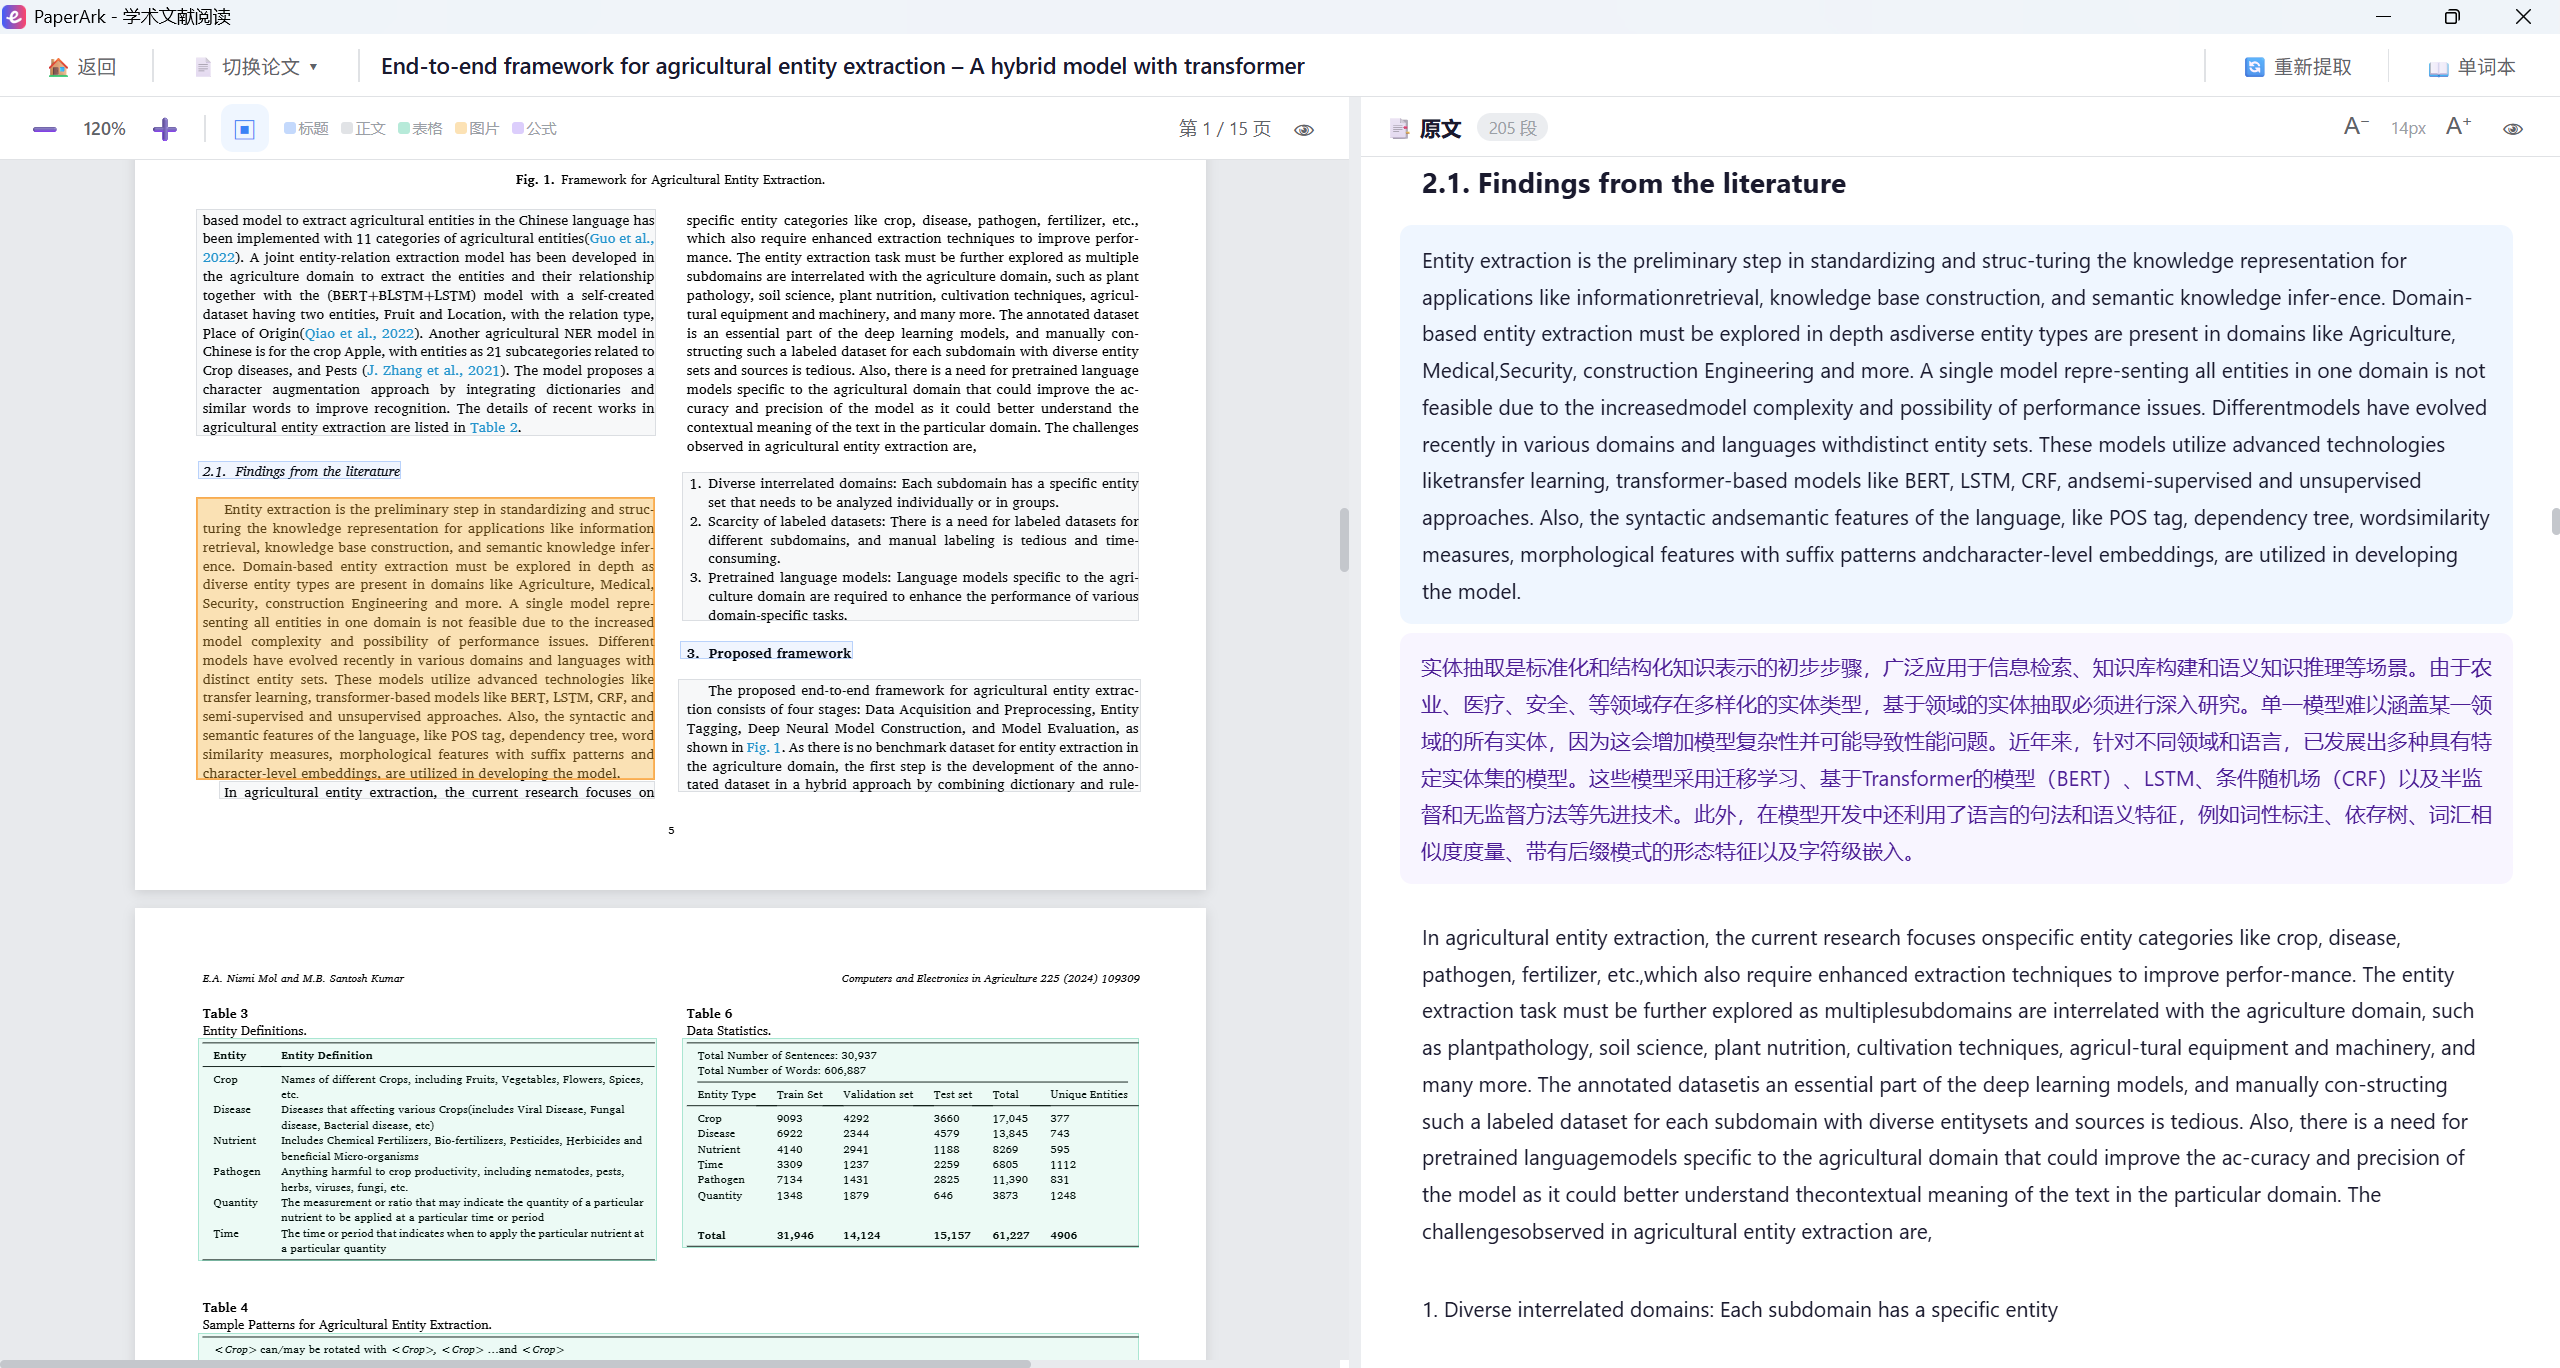
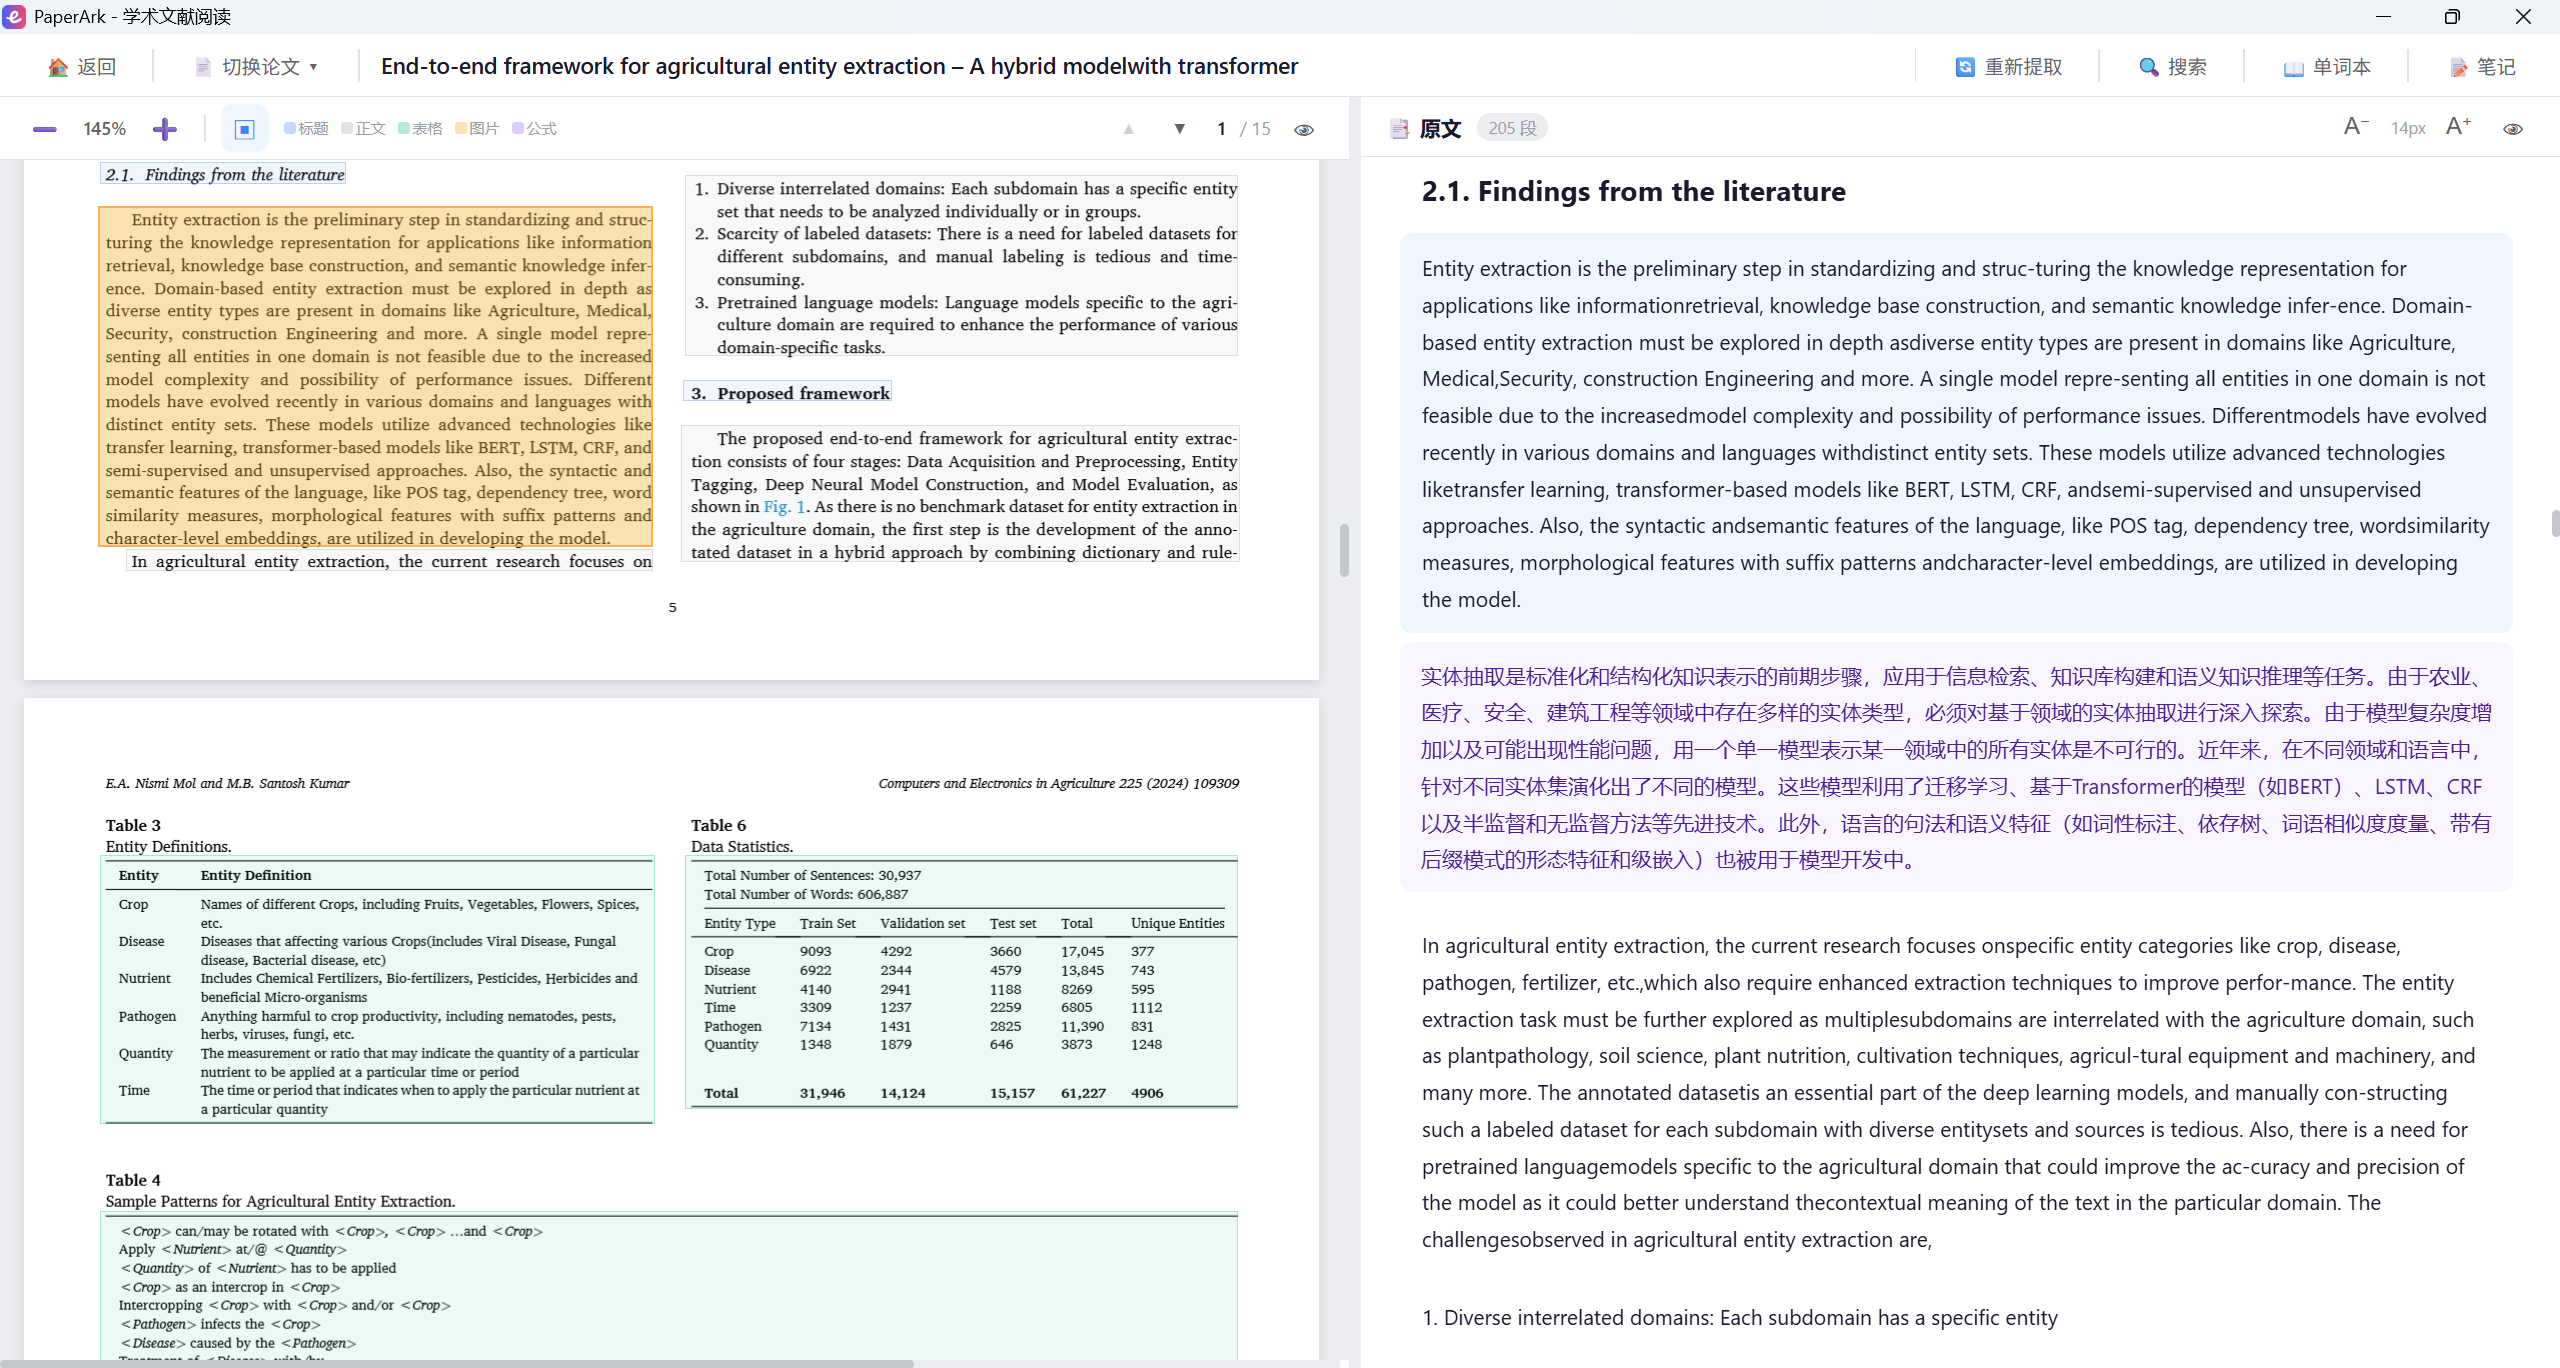
v1.2.6

diff --git a/README.md b/README.md
@@ -2,7 +2,7 @@
 
 > AI 驱动的学术文献阅读工具
 
-PaperArk 是一款面向学术研究者的桌面文献阅读工具，支持 PDF 导入、全文结构化提取、AI 段落翻译、标注与笔记、单词本等功能，帮助你把论文从静态 PDF 变成可深度交互的知识。
+PaperArk 是一款面向学术研究者的桌面文献阅读工具，支持 PDF 导入、全文结构化提取、AI 段落翻译、标注与笔记、Markdown 笔记、单词本、暗色模式等功能，帮助你把论文从静态 PDF 变成可深度交互的知识。
 
 🚀 **下载后直接双击 `paperark.exe` 启动，无需安装。**
 
@@ -14,11 +14,13 @@ PaperArk 是一款面向学术研究者的桌面文献阅读工具，支持 PDF 
 2. [主界面概览](#2-主界面概览)
 3. [文献管理](#3-文献管理)
 4. [阅读论文](#4-阅读论文)
-5. [AI 翻译](#5-ai-翻译)
-6. [标注与笔记](#6-标注与笔记)
-7. [单词本](#7-单词本)
-8. [设置](#8-设置)
-9. [回收站](#9-回收站)
+5. [全文搜索](#5-全文搜索)
+6. [AI 翻译](#6-ai-翻译)
+7. [标注与笔记](#7-标注与笔记)
+8. [单词本](#8-单词本)
+9. [暗色模式](#9-暗色模式)
+10. [设置](#10-设置)
+11. [回收站](#11-回收站)
 
 ---
 
@@ -127,7 +129,8 @@ PaperArk 依赖两个云端 AI 服务来提供核心能力：
 
 左侧 PDF 面板支持：
 - **缩放**：➖ / ➕ 按钮，范围 50% ~ 300%
-- **翻页**：滚动浏览，当前页码实时显示
+- **翻页**：滚动浏览，也可用 ▲ ▼ 按钮逐页翻页
+- **页码跳转**：点击当前页码数字 → 输入页码 → 回车跳转
 - **段落边界框**：点击 ▣ 按钮切换显示，不同颜色区分标题/正文/表格/图片/公式
 
 ### 全文提取
@@ -153,7 +156,19 @@ PaperArk 依赖两个云端 AI 服务来提供核心能力：
 
 ---
 
-## 5. AI 翻译
+## 5. 全文搜索
+
+在阅读界面按 **Ctrl+F**（或点击工具栏 🔍 按钮），弹出搜索框：
+
+- 输入关键词 → 所有匹配段落**实时高亮**
+- **Enter** → 下一个匹配，**Shift+Enter** → 上一个
+- PDF 自动跳转到对应页面
+- 匹配计数显示当前结果位置
+- **Escape** 或点击 ✕ 关闭搜索
+
+---
+
+## 6. AI 翻译
 
 ### 段落翻译
 
@@ -168,7 +183,7 @@ PaperArk 依赖两个云端 AI 服务来提供核心能力：
 
 ---
 
-## 6. 标注与笔记
+## 7. 标注与笔记
 
 ### 文本标注
 
@@ -180,13 +195,33 @@ PaperArk 依赖两个云端 AI 服务来提供核心能力：
 
 支持 6 种标注颜色。点击已有标注可**改色**、**切换高亮/下划线**或**删除**。
 
-### 笔记
+### 笔记（Markdown 编辑器）
 
-在右侧详情面板点击 **📝 创建笔记** 进入全屏 Markdown 编辑器。笔记自动保存，上次保存时间会显示在底部。
+在右侧详情面板点击 **📝 查看 / 编辑笔记** 进入笔记编辑区，或在阅读界面点击顶部工具栏 **📝 笔记** 打开浮动笔记面板。
+
+笔记支持 **Markdown 格式**，配备格式化工具栏：
+
+| 功能 | 操作 |
+|------|------|
+| 标题 | 下拉选择正文 / H1 ~ H6 |
+| 加粗 | 选中文字后点击 **B**，再点取消 |
+| 斜体 | 选中文字后点击 **I** |
+| 删除线 | 选中文字后点击 **~** |
+| 行内代码 | 选中文字后点击 **`</>`** |
+| 无序列表 | 点击 **•** 行首插入 `-` |
+| 有序列表 | 点击 **1.** 行首插入 `1.` |
+| 链接 | 点击 **🔗** 插入 `[文字](url)` |
+| 代码块 | 点击 **▤** 插入多行代码块 |
+
+- **实时预览**：编辑区上方写 Markdown 源文，下方即时渲染显示
+- **自动保存**：失焦自动写入磁盘
+- 支持 GFM 扩展语法（表格、任务列表等）
+
+阅读界面中的 **📝 笔记** 浮动面板与详情页笔记**共享同一份数据**，在任意一侧编辑都会同步。
 
 ---
 
-## 7. 单词本
+## 8. 单词本
 
 ### 添加单词
 
@@ -207,7 +242,17 @@ PaperArk 依赖两个云端 AI 服务来提供核心能力：
 
 ---
 
-## 8. 设置
+## 9. 暗色模式
+
+PaperArk 支持浅色 / 深色模式切换：
+
+- 打开 **⚙️ 设置** → 外观 → 点击 **☀️ 浅色模式 / 🌙 深色模式** 切换
+- 切换即时生效，**OS 标题栏颜色同步变化**
+- 重启后自动记忆上次主题
+
+---
+
+## 10. 设置
 
 点击主界面工具栏的 **⚙️** 按钮打开设置。
 
@@ -229,12 +274,18 @@ PaperArk 依赖两个云端 AI 服务来提供核心能力：
 
 ### 模型设置
 
-- **模型**：推荐 `deepseek-v4-flash`（极速）或 `deepseek-v4-pro`（专业），也可手动输入其他模型
+- **模型**：下拉选择 `deepseek-v4-flash`（极速）或 `deepseek-v4-pro`（专业）
 - **启用思考模式**：开启后翻译质量更高，但速度稍慢
+
+### 外观
+
+切换浅色 / 深色主题。
+
+> 💡 所有设置（API Key 除外）**自动保存**，修改后即时生效。
 
 ---
 
-## 9. 回收站
+## 11. 回收站
 
 删除的文献会进入回收站，不会立即从磁盘中移除。
 